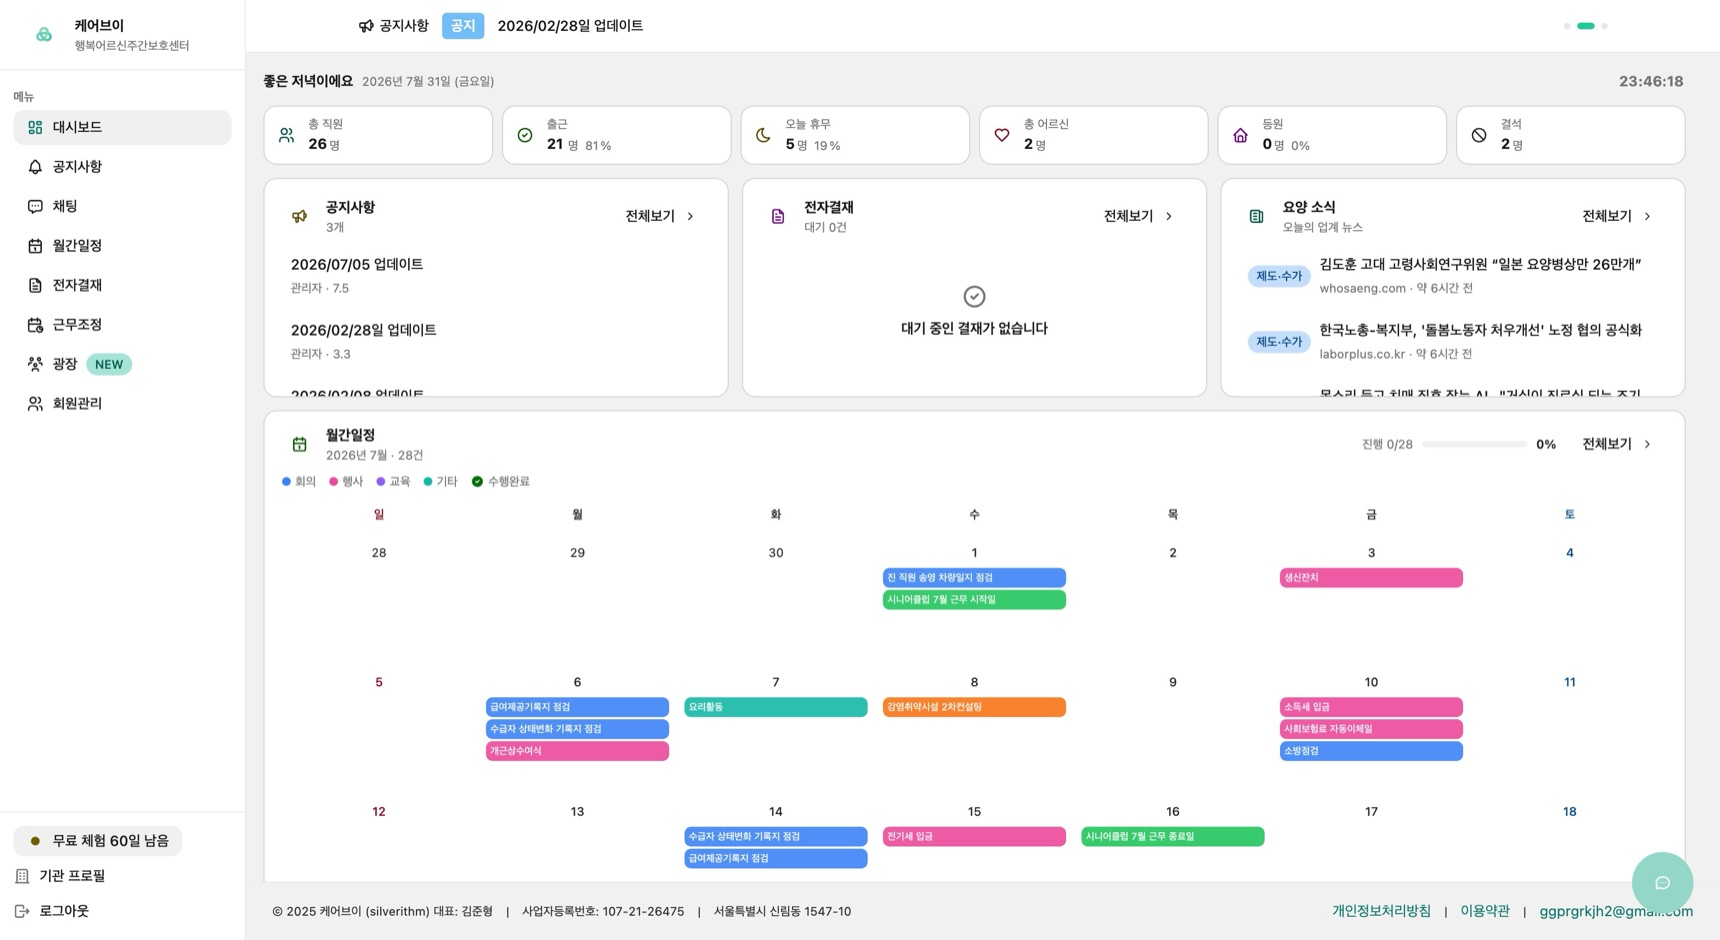
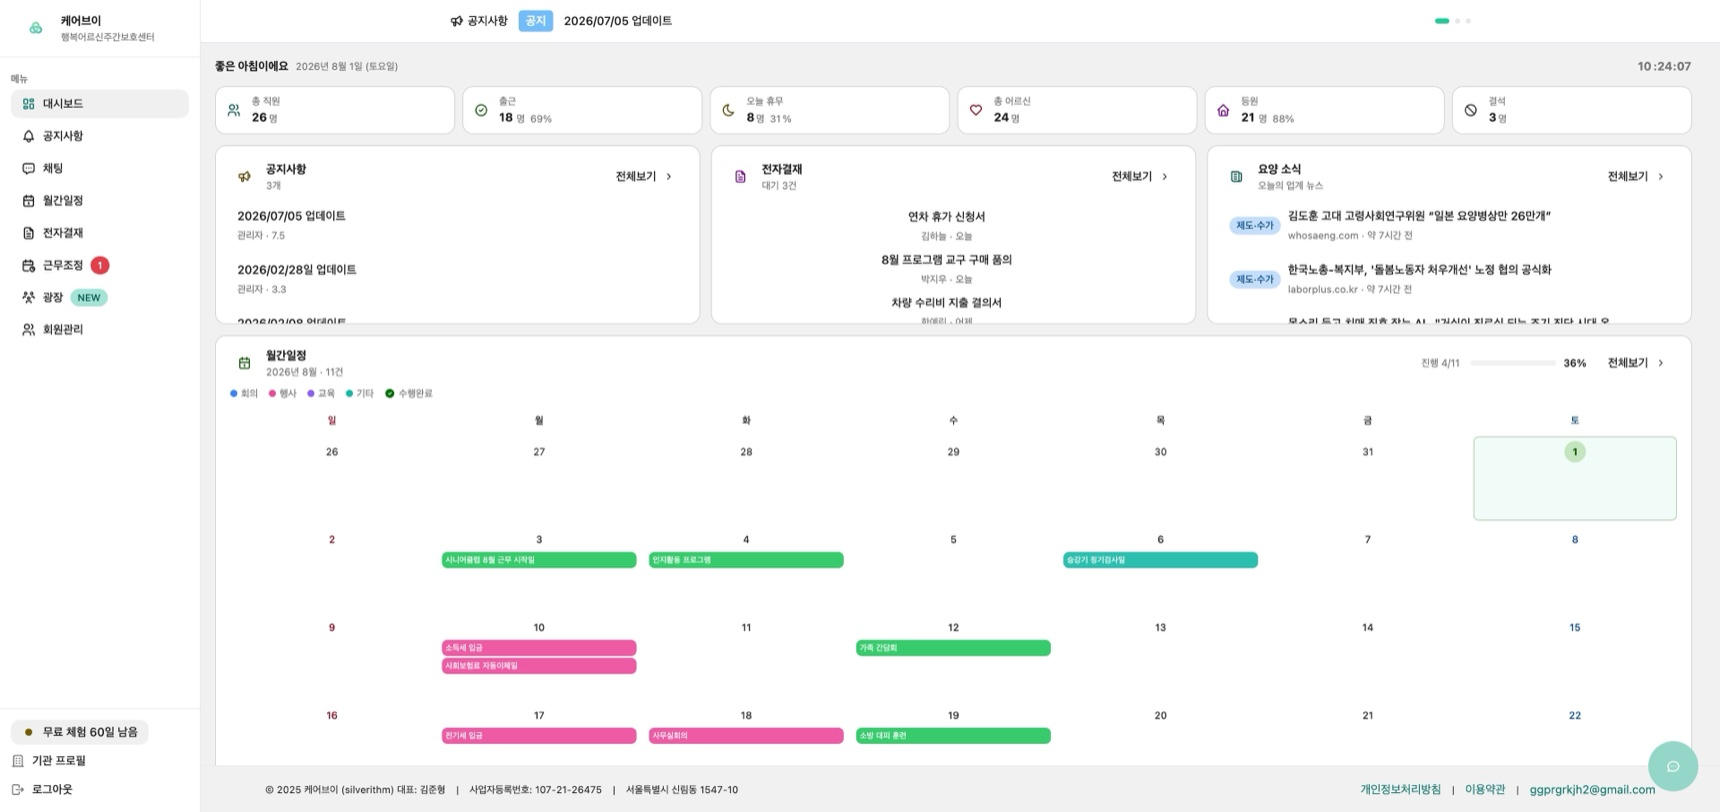
히어로 대시보드 캡처 갱신 — 전자결재 대기 문서 3건 등 데모 데이터 연출
빈 위젯("대기 중인 결재가 없습니다") 대신 결재 대기 목록·등원 현황·
일정 진행률·데모 일정이 채워진 활성 화면으로 재캡처 (전부 가명·가공 데이터)

Claude-Session: https://claude.ai/code/session_01GQHHot1g6udefzUkvgpmPN

diff --git a/src/app/page.tsx b/src/app/page.tsx
@@ -215,7 +215,7 @@ function DashboardPreview() {
                 src="/images/dashboard-preview.jpg"
                 alt="케어브이 관리자 대시보드 실제 화면 — 출근·휴무 현황, 공지사항, 전자결재, 요양 소식, 월간일정이 한 화면에 보인다"
                 width={1720}
-                height={940}
+                height={812}
                 sizes="(max-width: 1024px) 100vw, 960px"
                 style={{ width: '100%', height: 'auto', display: 'block' }}
                 priority
